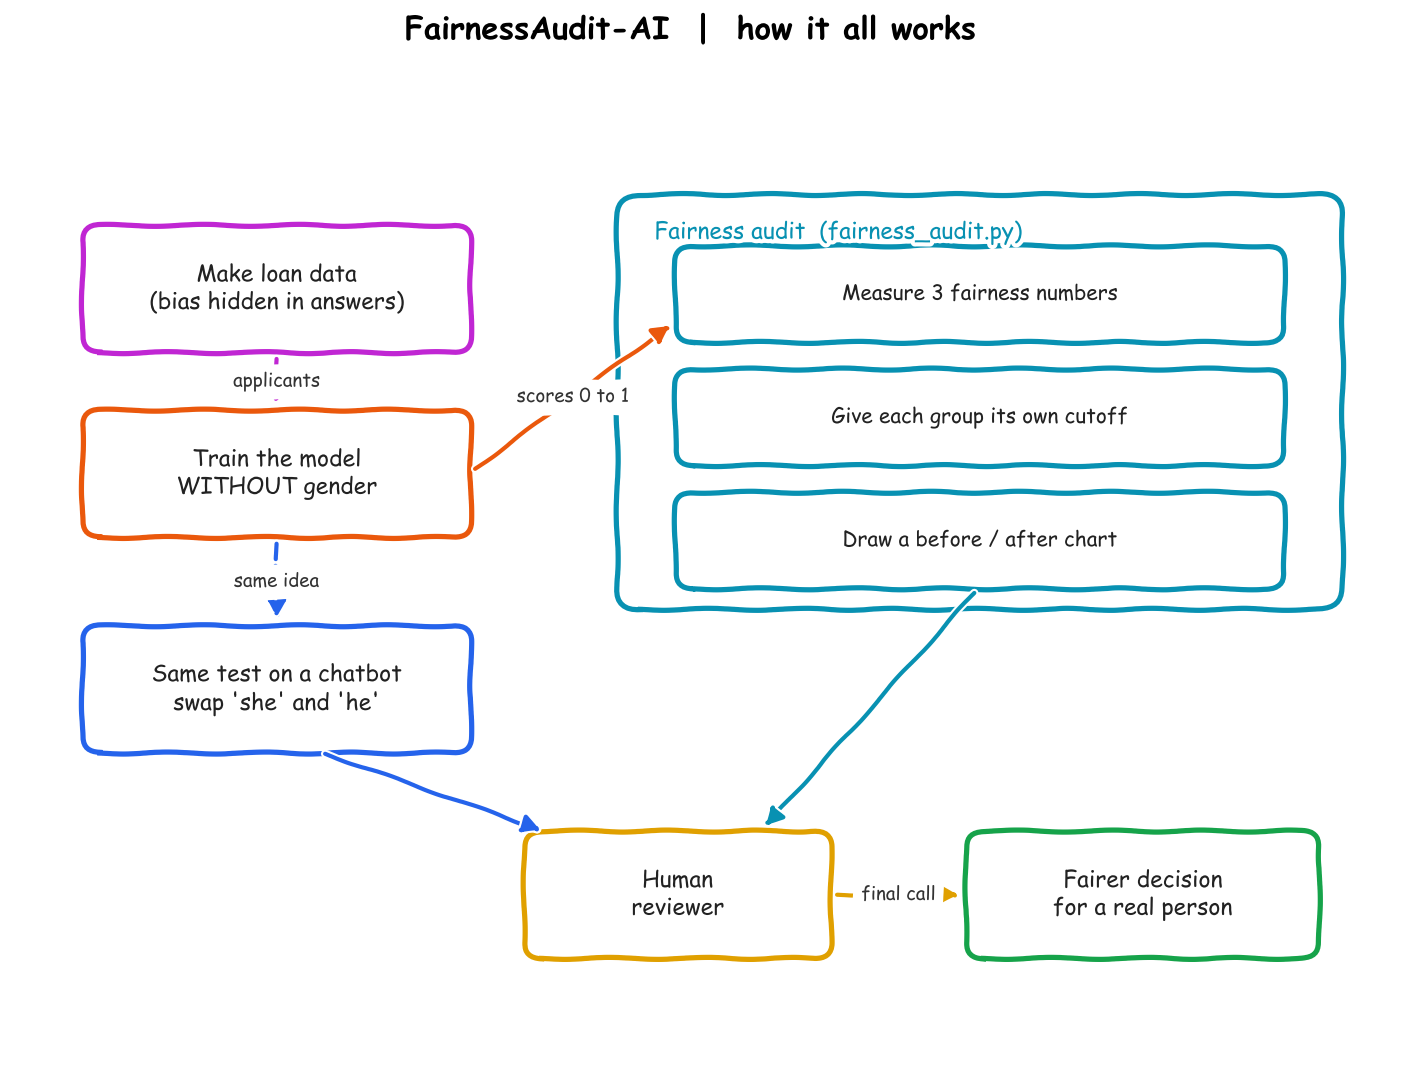
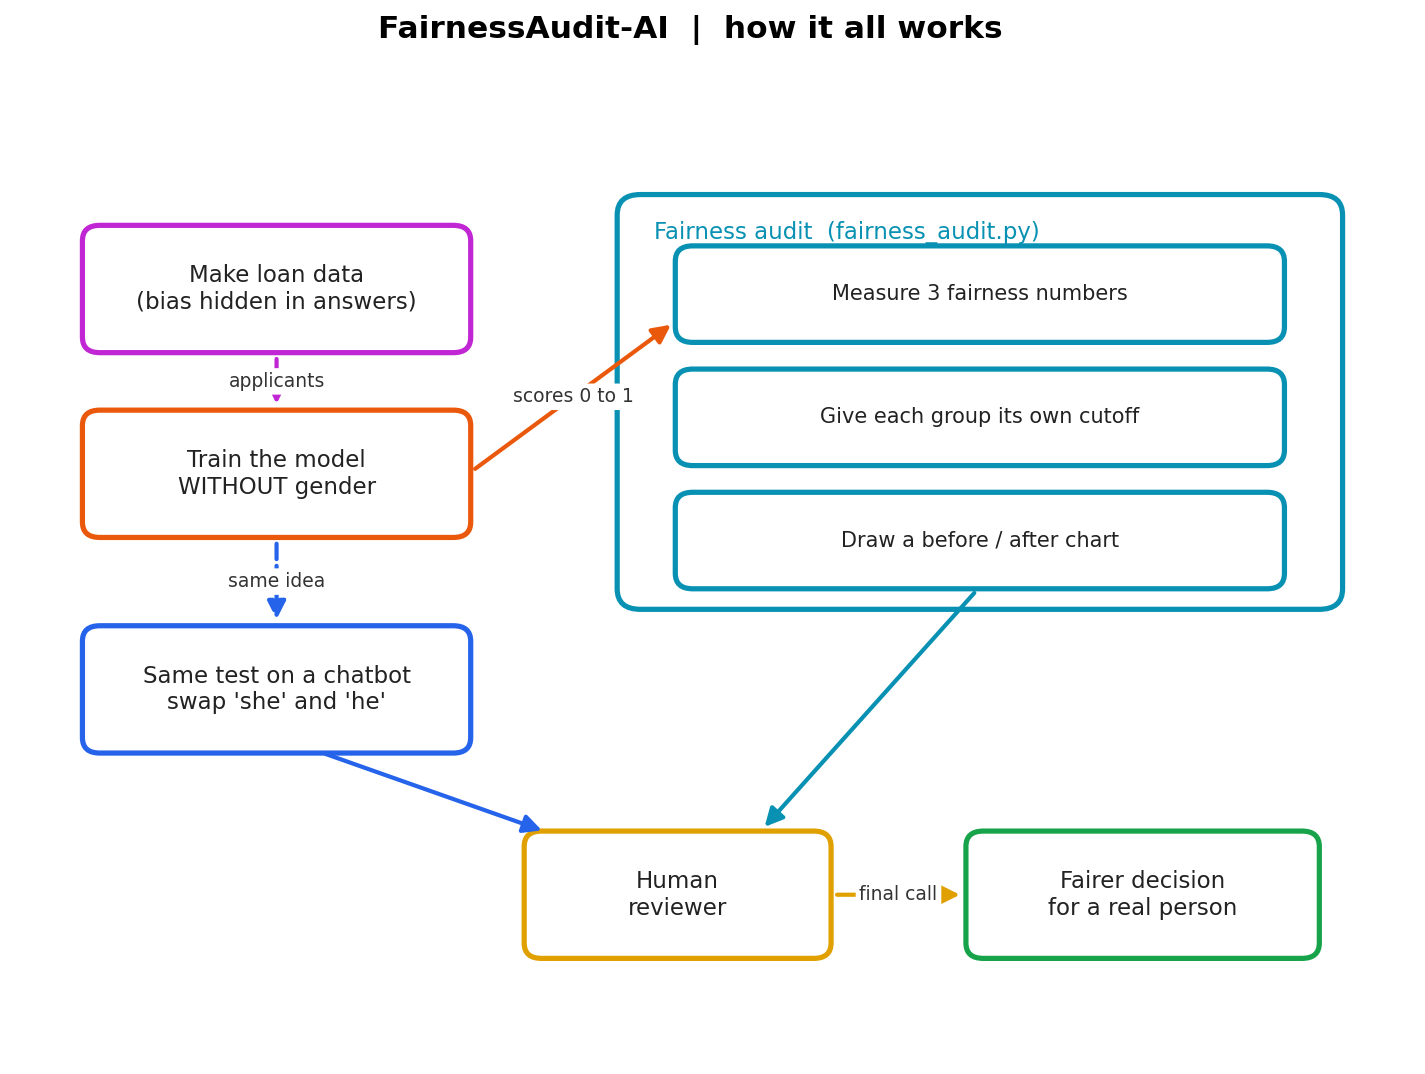
docs: remove the hand-drawn sketch effect, keep colored white boxes

diff --git a/make_diagram.py b/make_diagram.py
@@ -1,9 +1,9 @@
 """
 make_diagram.py
 
-Draws the project workflow as a hand-drawn whiteboard picture and saves it to
-docs/workflow.png. I use matplotlib's sketch style so the boxes and arrows look
-like they were drawn by hand on a whiteboard.
+Draws the project workflow and saves it to docs/workflow.png. Clean straight
+boxes with colored outlines on a white background, so it reads like a tidy
+whiteboard rather than a hand-drawn sketch.
 
 Run:  python make_diagram.py
 """
@@ -48,8 +48,6 @@ def arrow(ax, start, end, label="", color="#444444", style="-|>", dashed=False):
 
 
 def main():
-    plt.xkcd(scale=1.0, length=100, randomness=2)  # the hand-drawn look
-
     fig, ax = plt.subplots(figsize=(12, 8))
     ax.set_xlim(0, 12)
     ax.set_ylim(0, 9)
